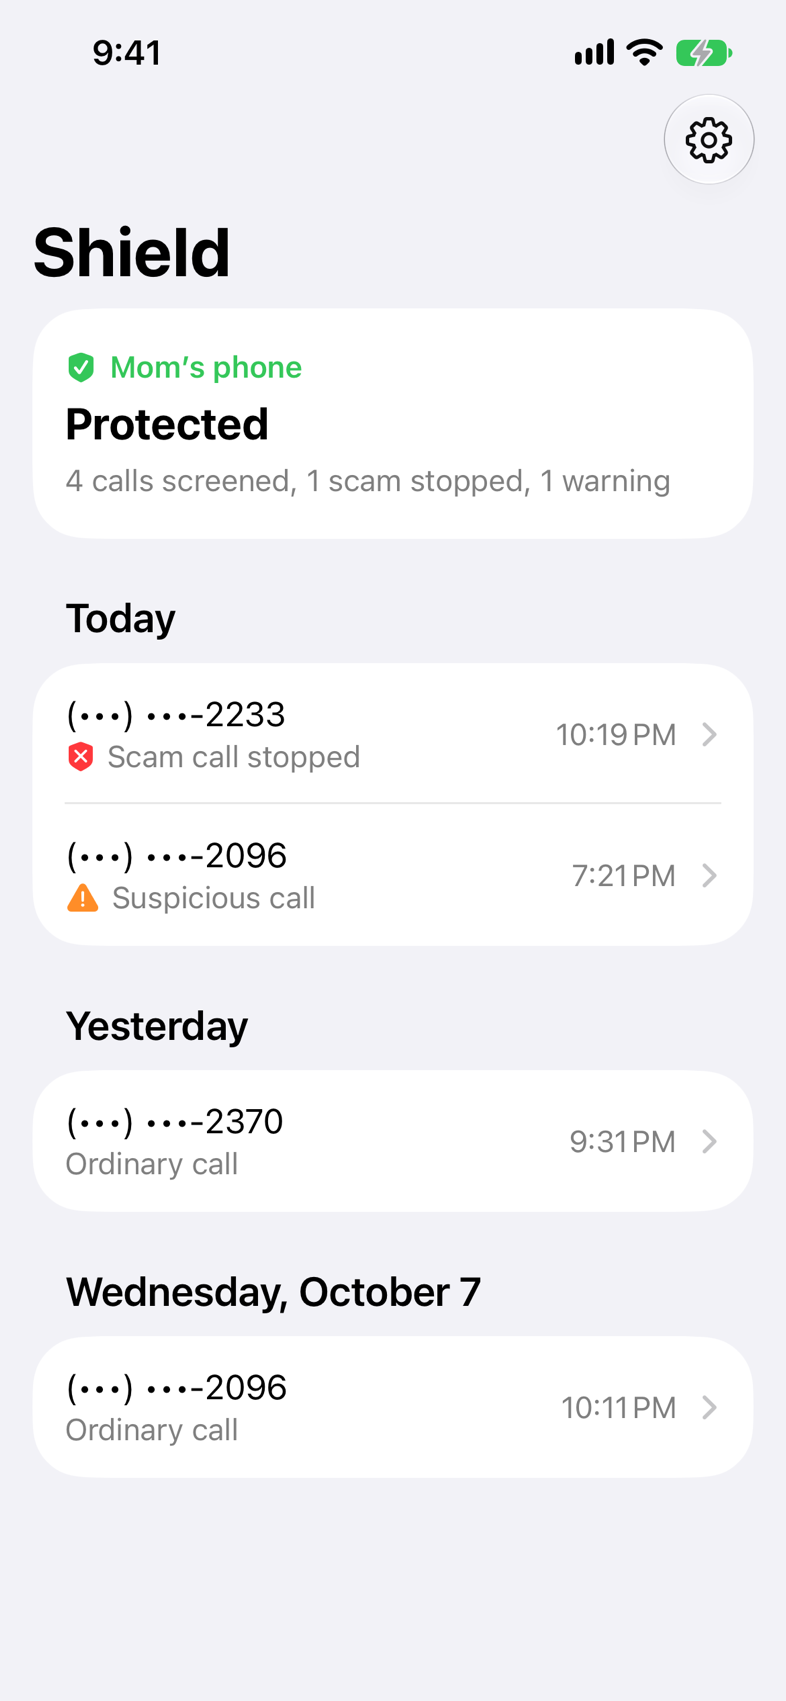
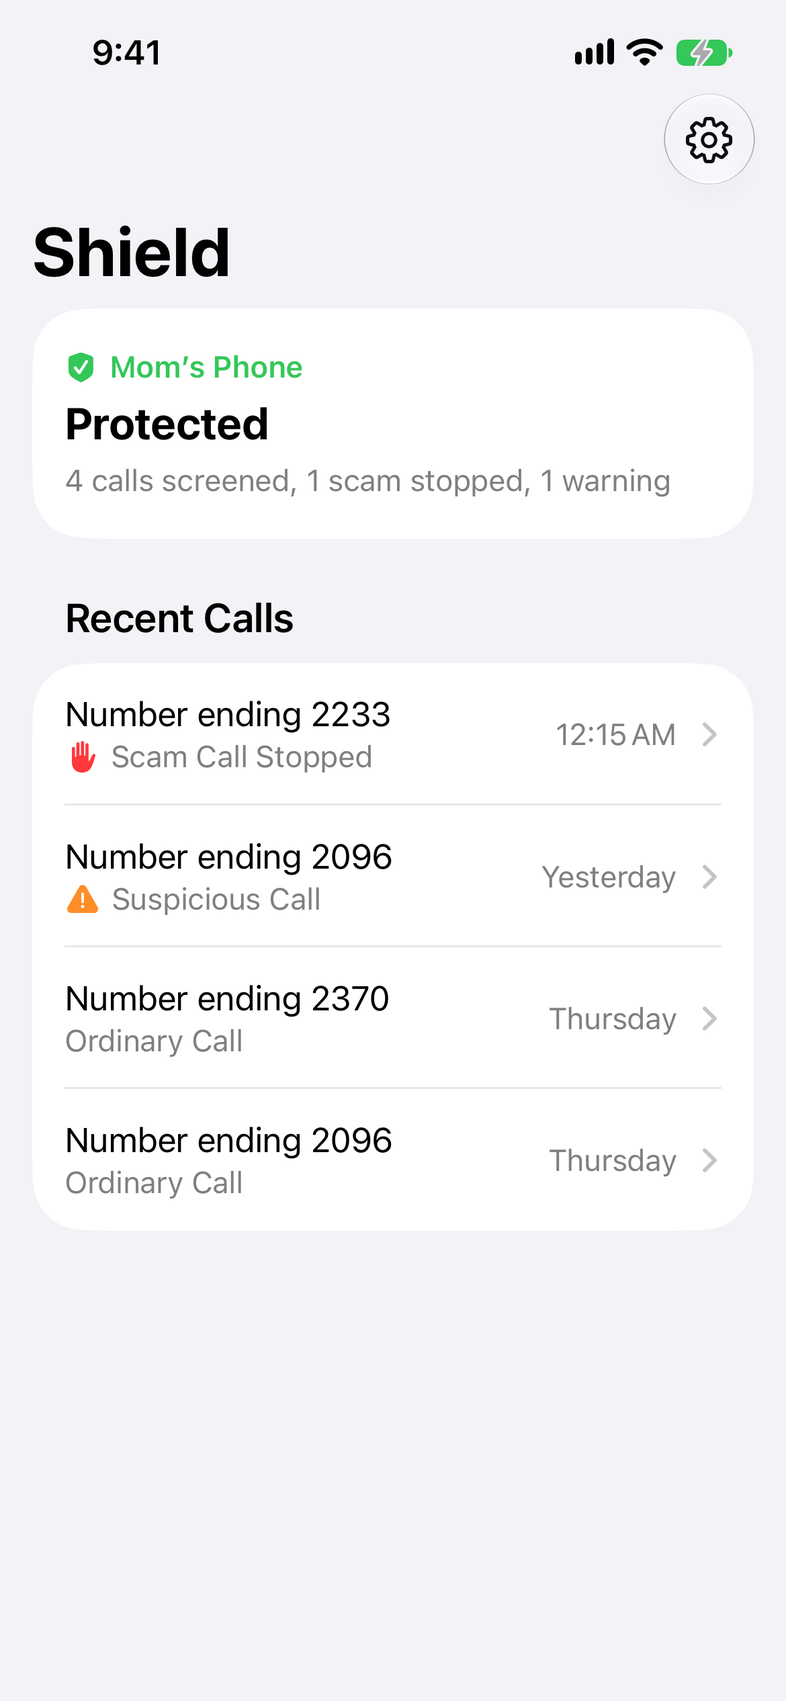
iPhone app: README and screenshots for the 2026-10-10 look
The five screenshots are retaken from the finished build on the iPhone 17e
simulator. The README says how the screens read now: one list of recent
calls, the dial arriving with the first words, the warning card leading with
its reason, the empty and not-connected states, and what color and
capitalization mean in the app.

diff --git a/ios/README.md b/ios/README.md
@@ -31,6 +31,10 @@ Shield server's `GET /events` feed and `GET /calls` list.
   happened" became system lists, the call screen's header got the system's own buttons,
   and flagged phrases a rounded highlighter. All of it was checked in the iPhone 17e
   simulator in light and dark, with Reduce Motion on, and at an accessibility text size.
+- On 2026-10-10 the look was gone over again, this time side by side with Apple's own
+  Health, Messages and Settings on the same iOS. Buttons became the system's blue,
+  recent calls one list, labels title case, and several things that were said twice are
+  said once (see "Screens"). Checked the same way, and on a recorded demo call.
 - **Not yet installed on a real iPhone.** That needs an Apple ID in Xcode; see below.
 - Not yet looked at: iPhones smaller than the 17e.
 
@@ -47,14 +51,34 @@ Dark mode: [screens/live-call-dark.png](screens/live-call-dark.png).
 The "Call" button only appears once the protected person's phone number is in the app's
 Settings. In the transcript, the caller's words that matched one of Shield's rules are
 set in bold, and highlighted once the call looks suspicious. A demo call says "Demo
-call" wherever a real call shows the caller's number.
+Call" wherever a real call shows the caller's number.
 
-Recent calls are listed under the day they came in. Each row leads with the caller's
-number, masked by the server to its last four digits, and says what came of the call
-under it.
+Recent calls are one list, newest first. Each row leads with the caller, written "Number
+ending 2233" (the server masks numbers to their last four digits), says what came of
+the call under it, and ends with when it came in: the time if that was today, then
+"Yesterday", the day of the week, or the date. At large text sizes the day moves under
+the rest of the row.
 
 The dial says how the call looks in words. The small number in its opening is the risk
-score out of 100 that the words come from.
+score out of 100 that the words come from. The dial arrives with the first words of the
+call: while the phone is ringing there is nothing for it to say.
+
+Shield's warning card says why it warned, and has the "Call" button. How the call looks
+is left to the dial above it.
+
+With no calls yet, Home says so and, if the server offers demo calls, has a "Start a
+Demo Call" button. When the app cannot reach the server, Home's card has an "Open
+Settings" button.
+
+### How it looks
+
+Screens are the system's grouped lists and cards, with black and gray text. Blue is for
+what can be tapped. Green, orange and red each report a state (protected, suspicious,
+scam) and are used for nothing else: once per card, on its small label, and on the dial
+and the chart line. A label that only names what its card holds is gray.
+
+Headings, labels, buttons and status words are in title case, as in Apple's own apps
+("Scam Call Stopped", "What Happened"). Complete sentences are written as sentences.
 
 When Shield warns or ends a call, the call screen comes back even if it had been put
 away, and the phone buzzes. The transcript keeps up with the call until you scroll up
@@ -86,7 +110,8 @@ call screen fades in where it would slide, and digits and words cross-fade.
    or the app shows no play button.
 3. Open `ios/Shield.xcodeproj`, pick an iPhone simulator, press Run.
 4. The app connects to `http://localhost:8000` by default. Tap the play button at the
-   top of Home and pick a scam call. The call screen opens by itself.
+   top of Home (or "Start a Demo Call", while the list is empty) and pick a scam call.
+   The call screen opens by itself.
 
 To point the app at another server without touching Settings, pass launch arguments:
 `-serverURL http://localhost:8001`. `-seniorPhone +14045550100` does the same for the
@@ -128,4 +153,6 @@ Shield-Info.plist            allows plain http to a local server
 ```
 
 `LiveCall.apply(_:)` is the one place where feed events become screen state. Demo
-calls are tagged "Demo" everywhere and are left out of the Home screen's counts.
+calls say "Demo Call" everywhere and are left out of the Home screen's counts.
+`Support/Theme.swift` holds the colors, the three timings, and the app's few button
+and card styles.
